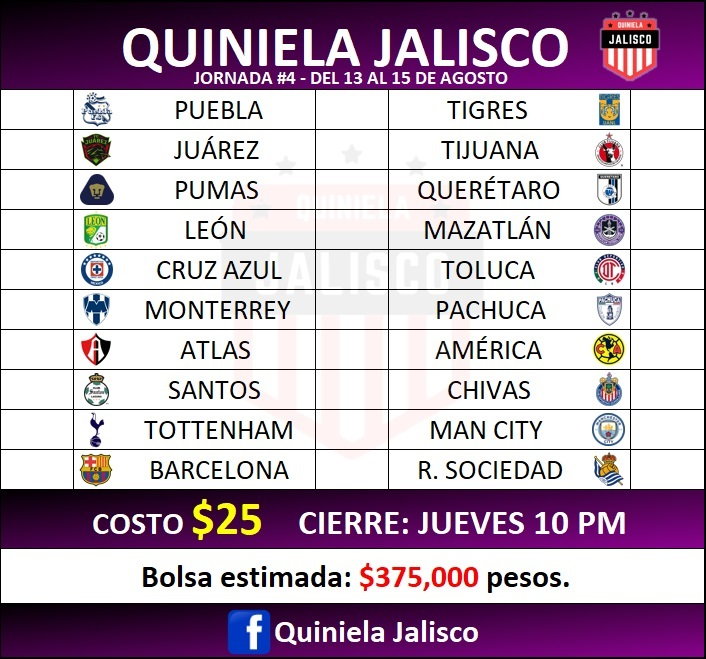
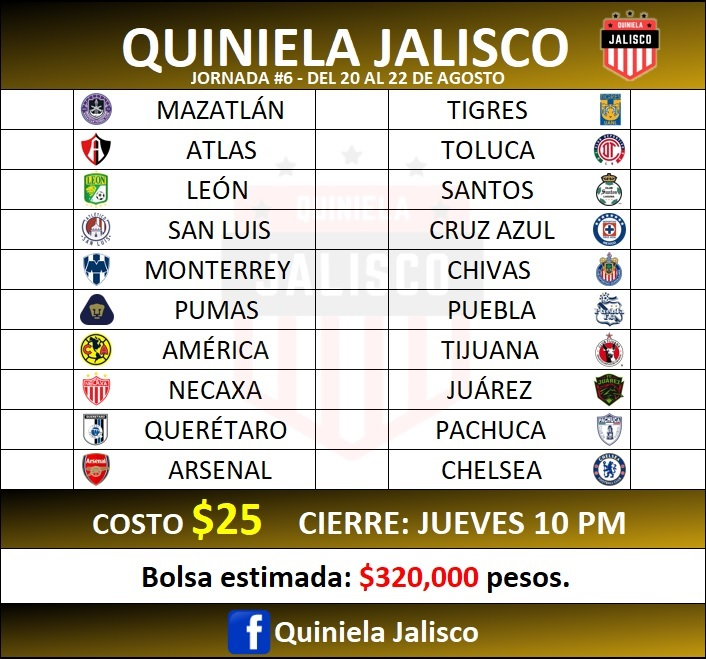
Jornada 6 A21

diff --git a/10/styles10.css b/10/styles10.css
@@ -88,8 +88,8 @@ h1{
     margin-top: 8%;
     border: solid 1px black;
     border-radius: 0 0 14px 14px;
-    background: -webkit-linear-gradient(0.1turn, rgb(49,0,49)  ,rgb(140,0,144) 80%);
-    background: linear-gradient(0.1turn, rgb(49,0,49)  ,rgb(140,0,144) 80%);
+    background: -webkit-linear-gradient(0.04turn, rgb(0,0,0)  ,rgb(193,150,38) 80%);
+    background: linear-gradient(0.04turn, rgb(0,0,0)  ,rgb(193,150,38) 80%);
     font-size: x-large;
 }
 
@@ -250,7 +250,7 @@ h6{
 
 
 #cantidad:before{
-    content:' $375,000 pesos';
+    content:' $320,000 pesos';
 }
 
 
